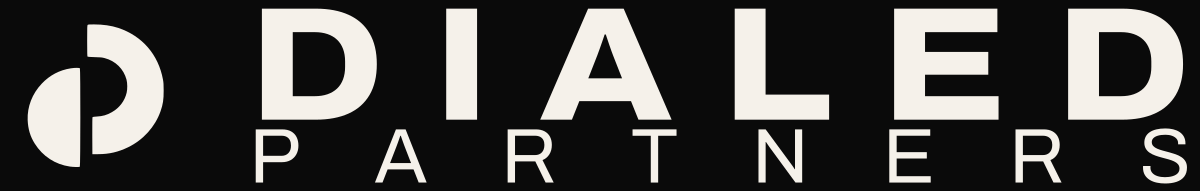
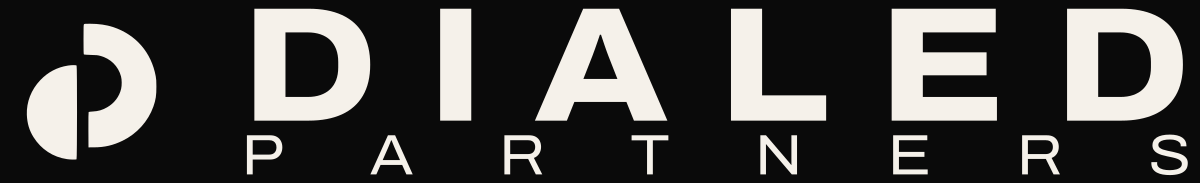
Fix stacked lockup v4: Archivo 400/112 PARTNERS at 0.35x cap
PARTNERS now reads as a calm, markedly smaller counterline under
DIALED, matching the archery and mark-on-top references.

- Family: Archivo (same as DIALED, drop Roboto Mono)
- Weight: 400 Regular (lighter than DIALED 800)
- Width: 112% stretch (match DIALED family)
- Cap height: 0.35x DIALED cap (was 0.48x)
- Letter-spacing: +1.4940em (measured; both lines terminate at same x)
- Baseline-to-baseline: tight (90-unit gap, snug)

Applied to every stacked variant: stacked storm/bone/white, stacked
reversed, stacked wordmark no-mark, both centered variants. Site
header img width bumped to 294 to match new 6.54:1 aspect.

diff --git a/contact.html b/contact.html
@@ -27,7 +27,7 @@
 <header class="site-header">
   <div class="wrap">
     <a class="brand" href="index.html" aria-label="DialedPartners home">
-      <img class="brand-lockup" src="assets/img/dialedpartners-lockup-stacked-bone.svg" alt="DialedPartners" width="282" height="45">
+      <img class="brand-lockup" src="assets/img/dialedpartners-lockup-stacked-bone.svg" alt="DialedPartners" width="294" height="45">
     </a>
     <nav class="nav" aria-label="Primary">
       <a href="index.html#about">About</a>

diff --git a/index.html b/index.html
@@ -27,7 +27,7 @@
 <header class="site-header">
   <div class="wrap">
     <a class="brand" href="index.html" aria-label="DialedPartners home">
-      <img class="brand-lockup" src="assets/img/dialedpartners-lockup-stacked-bone.svg" alt="DialedPartners" width="282" height="45">
+      <img class="brand-lockup" src="assets/img/dialedpartners-lockup-stacked-bone.svg" alt="DialedPartners" width="294" height="45">
     </a>
     <nav class="nav" aria-label="Primary">
       <a href="#about">About</a>
